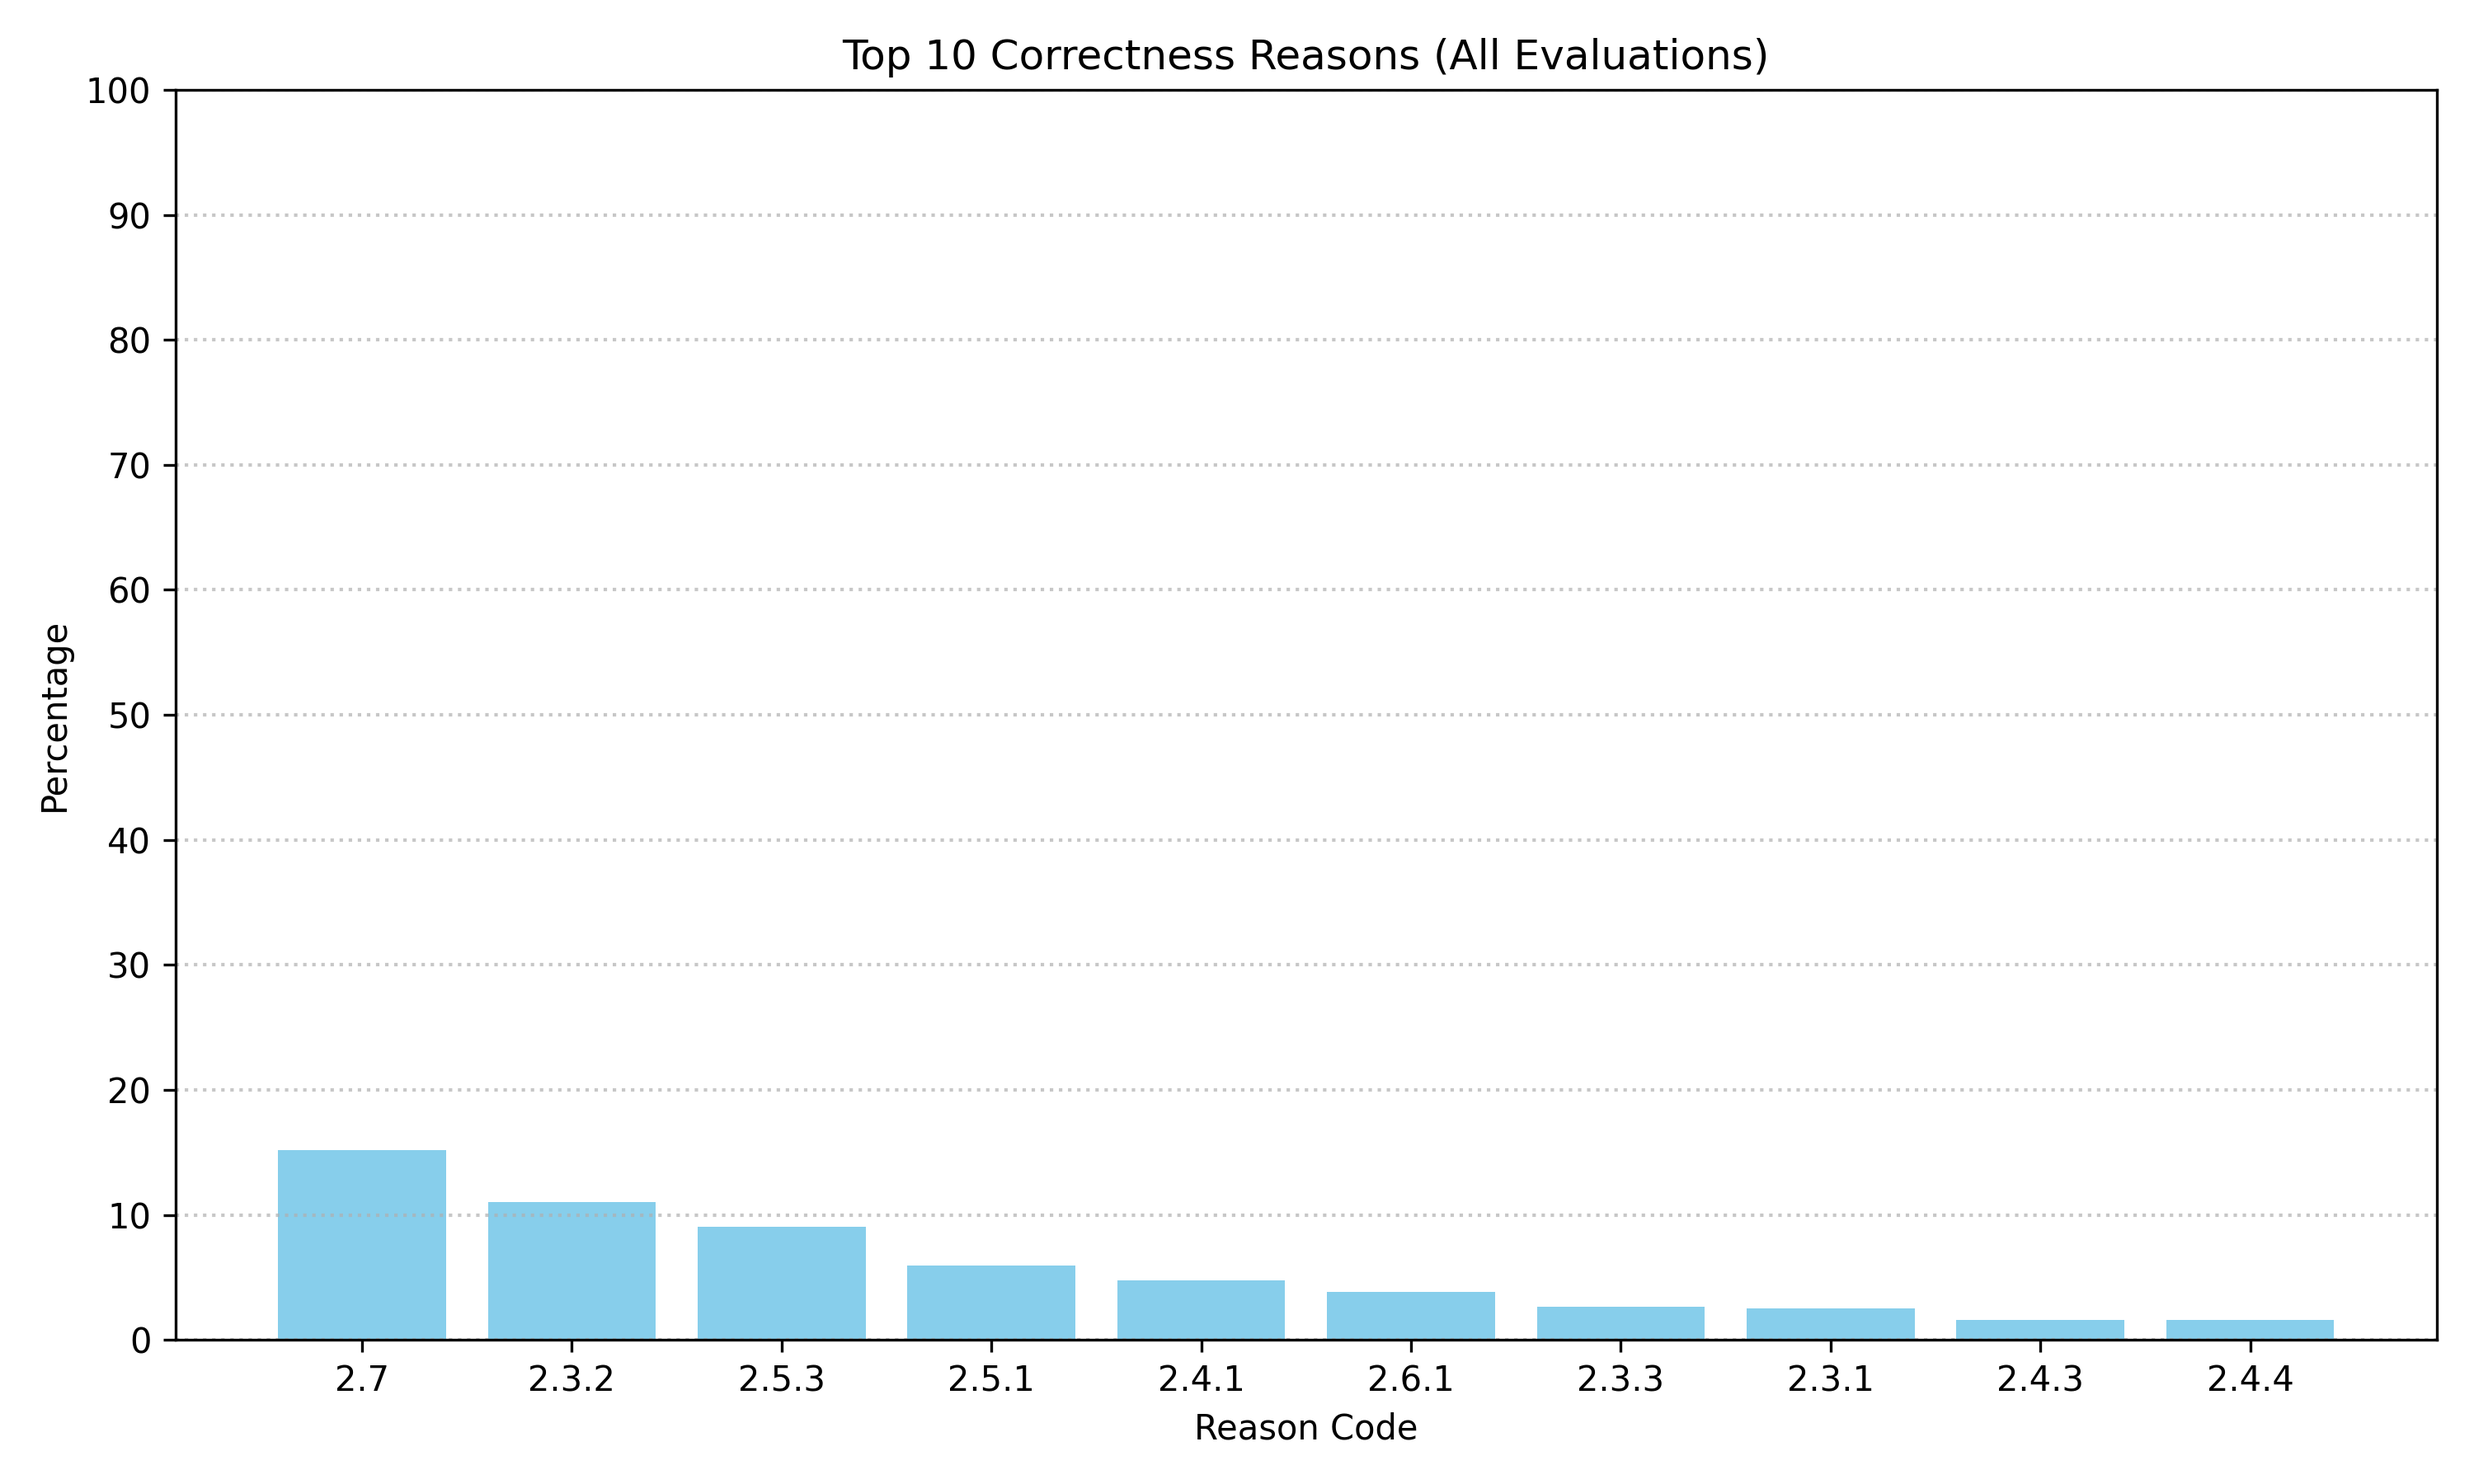
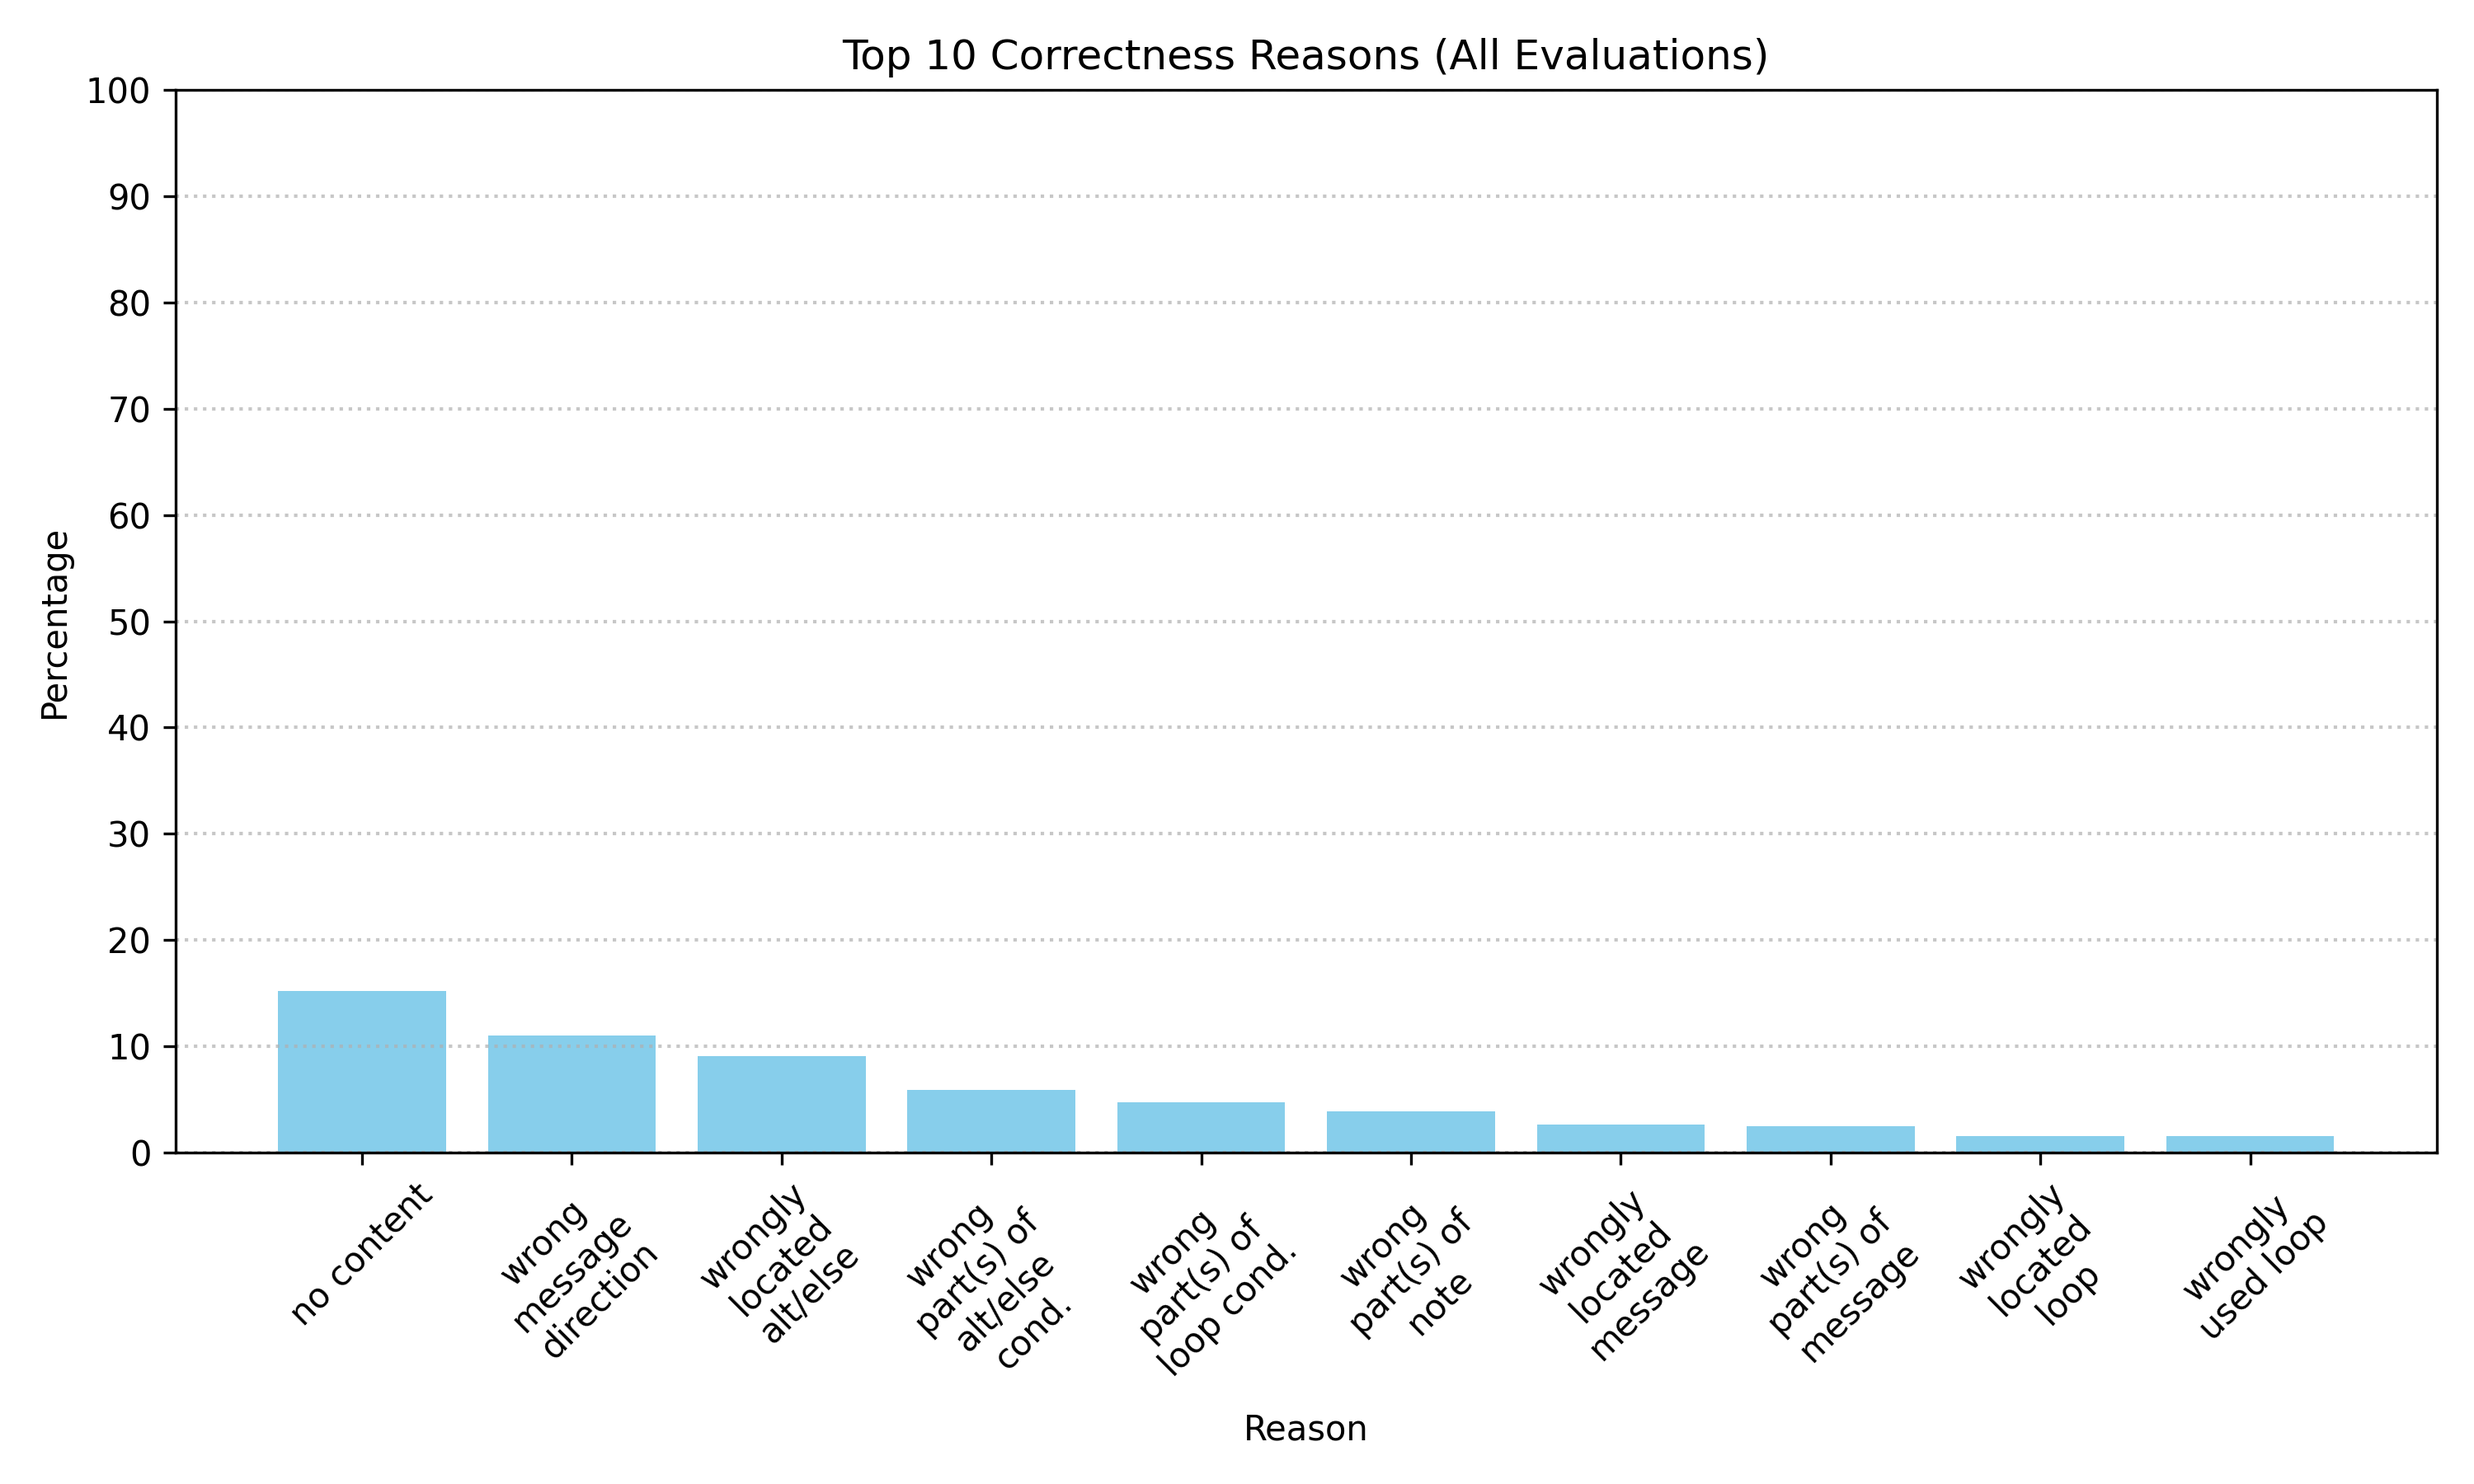
Reasons diagrams reason codes replaced with explanations.

diff --git a/evaluation_analysis/general_diagram_generators.py b/evaluation_analysis/general_diagram_generators.py
@@ -1,6 +1,7 @@
 import os
 import csv
 import math
+import textwrap
 import matplotlib.pyplot as plt
 import numpy as np
 
@@ -46,21 +47,35 @@ def plot_top_10_reasons(reason_dict, title, filename, directory = ''):
     # Sort and get top 10
     sorted_items = sorted(reason_dict.items(), key=lambda x: x[1], reverse=True)[:10]
     labels, values = zip(*sorted_items)
+    labels = explain_labels(labels)
 
     plt.figure(figsize=(10, 6))
     plt.bar(labels, values, color='skyblue')
     plt.ylim(0, 100)
     plt.yticks(range(0, 100 + 1, 10))  # Set y-axis ticks at every 10 units
 
+    plt.xticks(rotation=45, ha='center')  # Tilt for better spacing
+
     plt.grid(axis='y', linestyle=':', linewidth=1, alpha=0.7)  # Horizontal dotted lines
     plt.title(title)
-    plt.xlabel('Reason Code')
+    plt.xlabel('Reason')
     plt.ylabel('Percentage')
     plt.tight_layout()
 
     os.makedirs(os.path.join("evaluation_analysis/diagrams", directory), exist_ok=True)
     plt.savefig(os.path.join("evaluation_analysis/diagrams", directory, filename), dpi=300)
     plt.close()
+
+
+def explain_labels(labels):
+    """
+    Replace each label in the tuple with its explanation from the dictionary.
+    If a label has no explanation, it remains unchanged.
+    """
+    return tuple(
+        textwrap.fill(label_explanations.get(label, label), width = 10)
+        for label in labels
+    )
 
 
 def calc_normalized_reason_counts_general(reasons_dict, all_evals = True):
@@ -100,3 +115,35 @@ def calc_normalized_reason_counts_general(reasons_dict, all_evals = True):
         reasons_dict['correctness_reasons'][reason] = (reasons_dict['correctness_reasons'][reason] / reason_counts[reason_prefix]) * 100
 
     return reasons_dict
+
+
+label_explanations = {
+    '1.1': 'missing actor',
+    '1.2': 'missing participant',
+    '1.3': 'missing message entirely',
+    '1.3.1': 'missing part(s) of message',
+    '1.4': 'missing loop entirely',
+    '1.4.1': 'missing part(s) of loop cond.',
+    '1.5': 'missing alt/else entirely',
+    '1.5.1': 'missing part(s) of alt cond.',
+    '1.5.2': 'missing an alt',
+    '1.5.3': 'missing an else',
+    '1.5.4': 'missing an extra else',
+    '1.6': 'missing note entirely',
+    '1.6.1': 'missing part(s) of note',
+    # Correctness reasons
+    '2.1': 'wrong actor',
+    '2.2': 'wrong participant',
+    '2.3.1': 'wrong part(s) of message',
+    '2.3.2': 'wrong message direction',
+    '2.3.3': 'wrongly located message',
+    '2.4.1': 'wrong part(s) of loop cond.',
+    '2.4.2': 'wrong loop',
+    '2.4.3': 'wrongly located loop',
+    '2.4.4': 'wrongly used loop',
+    '2.5.1': 'wrong part(s) of alt/else cond.',
+    '2.5.2': 'wrong alt/else',
+    '2.5.3': 'wrongly located alt/else',
+    '2.6.1': 'wrong part(s) of note',
+    '2.7': 'no content',
+}
